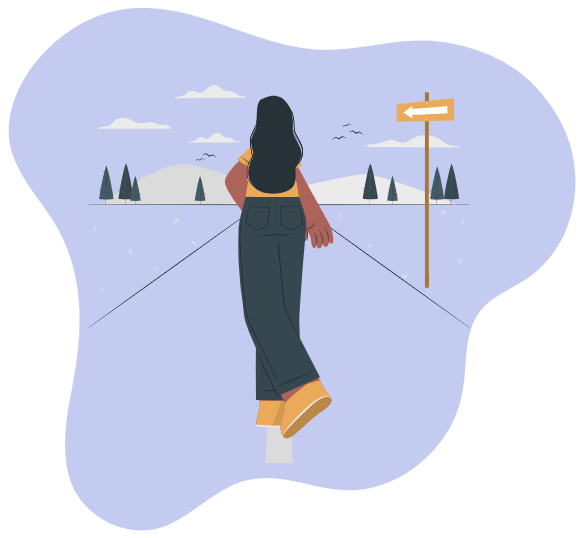
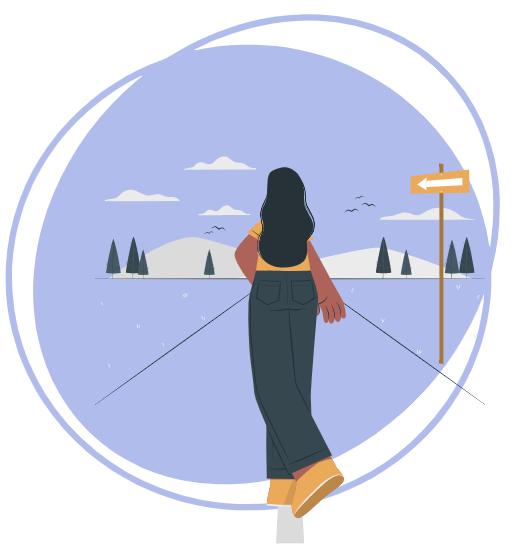
updated presentation image

diff --git a/src/pages/Home/home.scss b/src/pages/Home/home.scss
@@ -140,7 +140,8 @@
         }
         &-pres {
             &-image {
-                height: 40%;
+                height: 30%;
+                
             }
         }
         &-symptoms {
